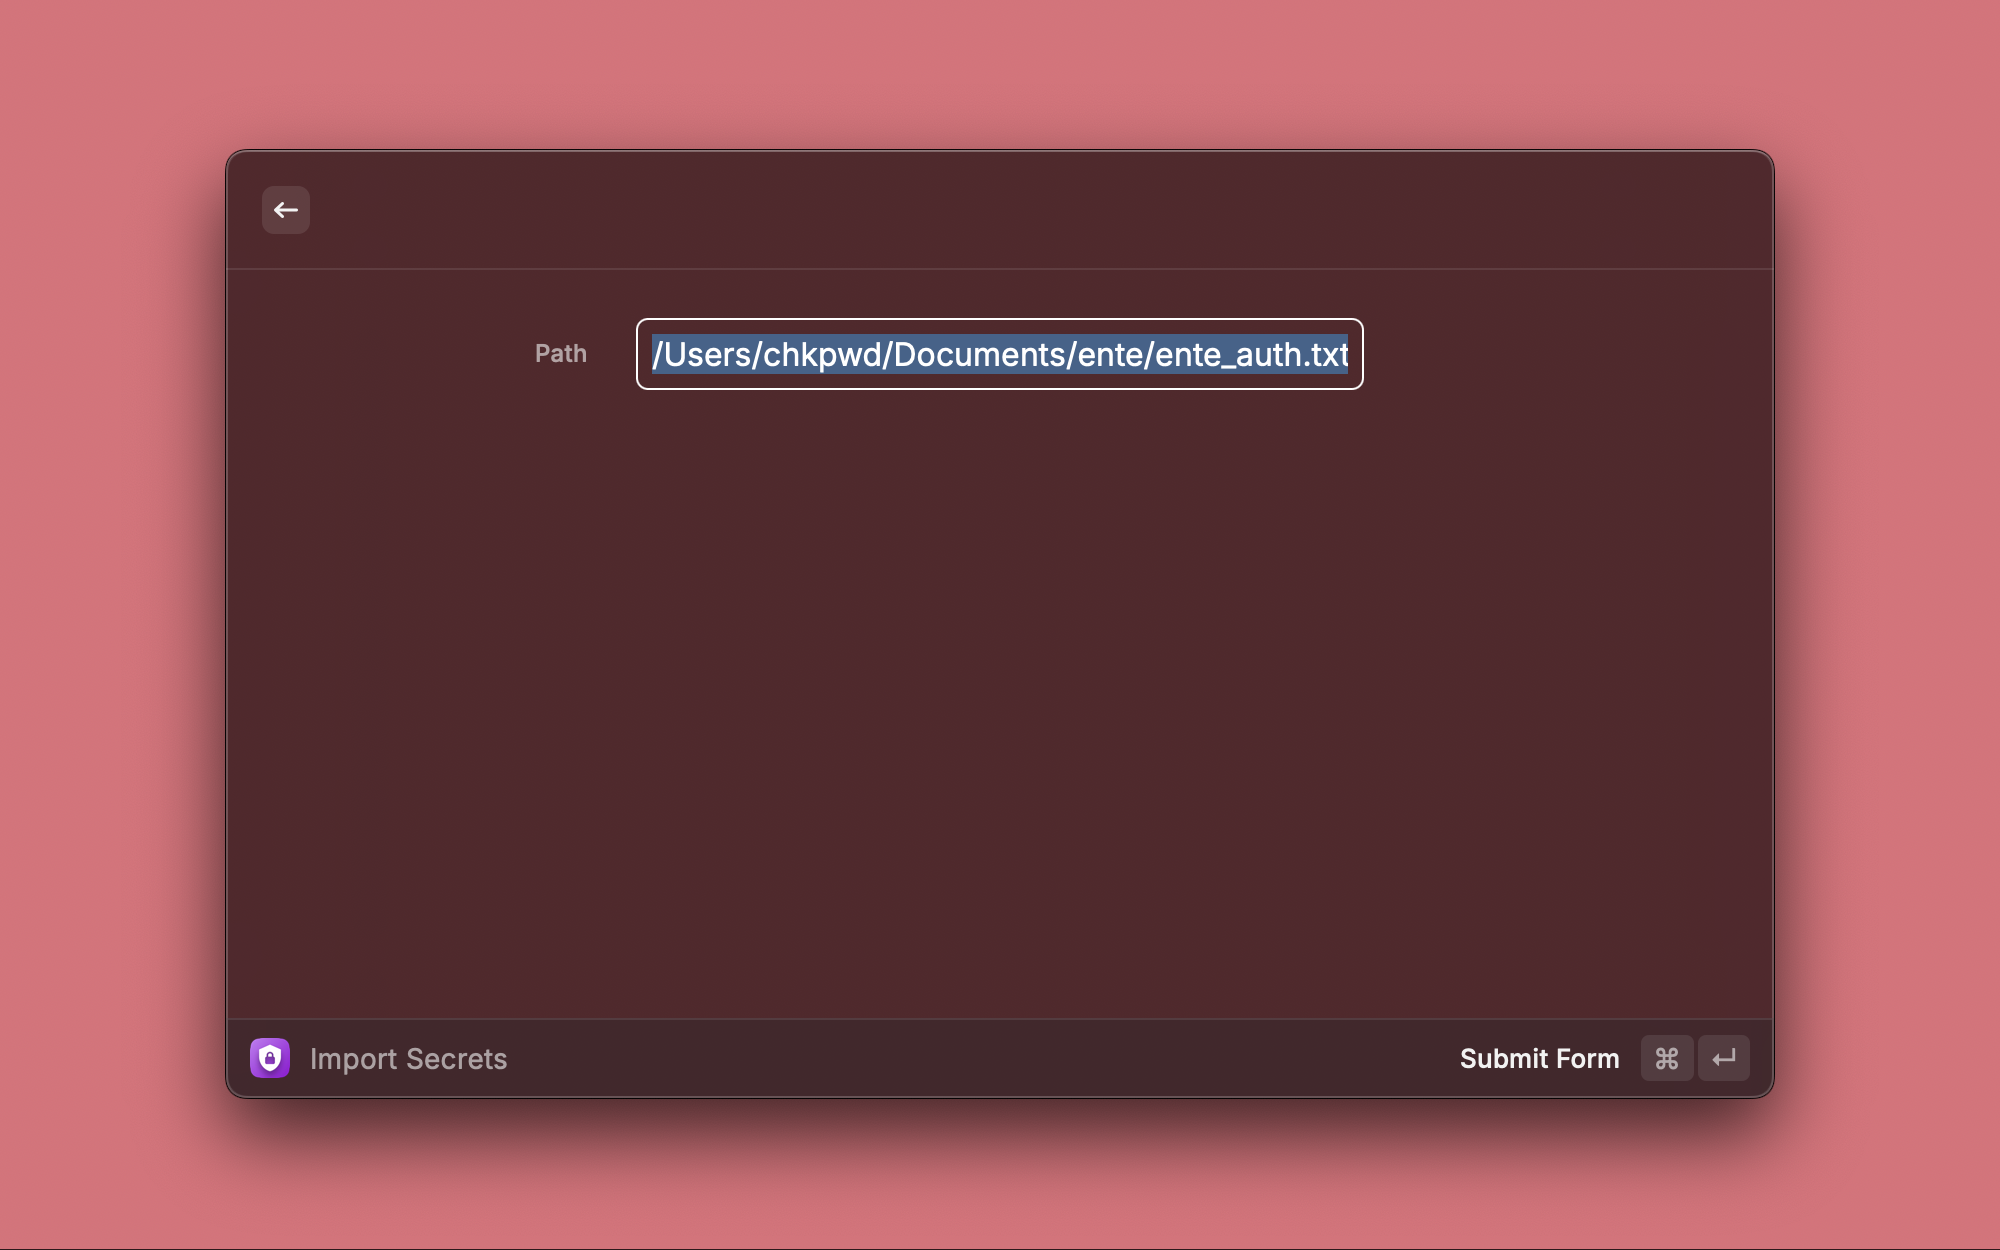
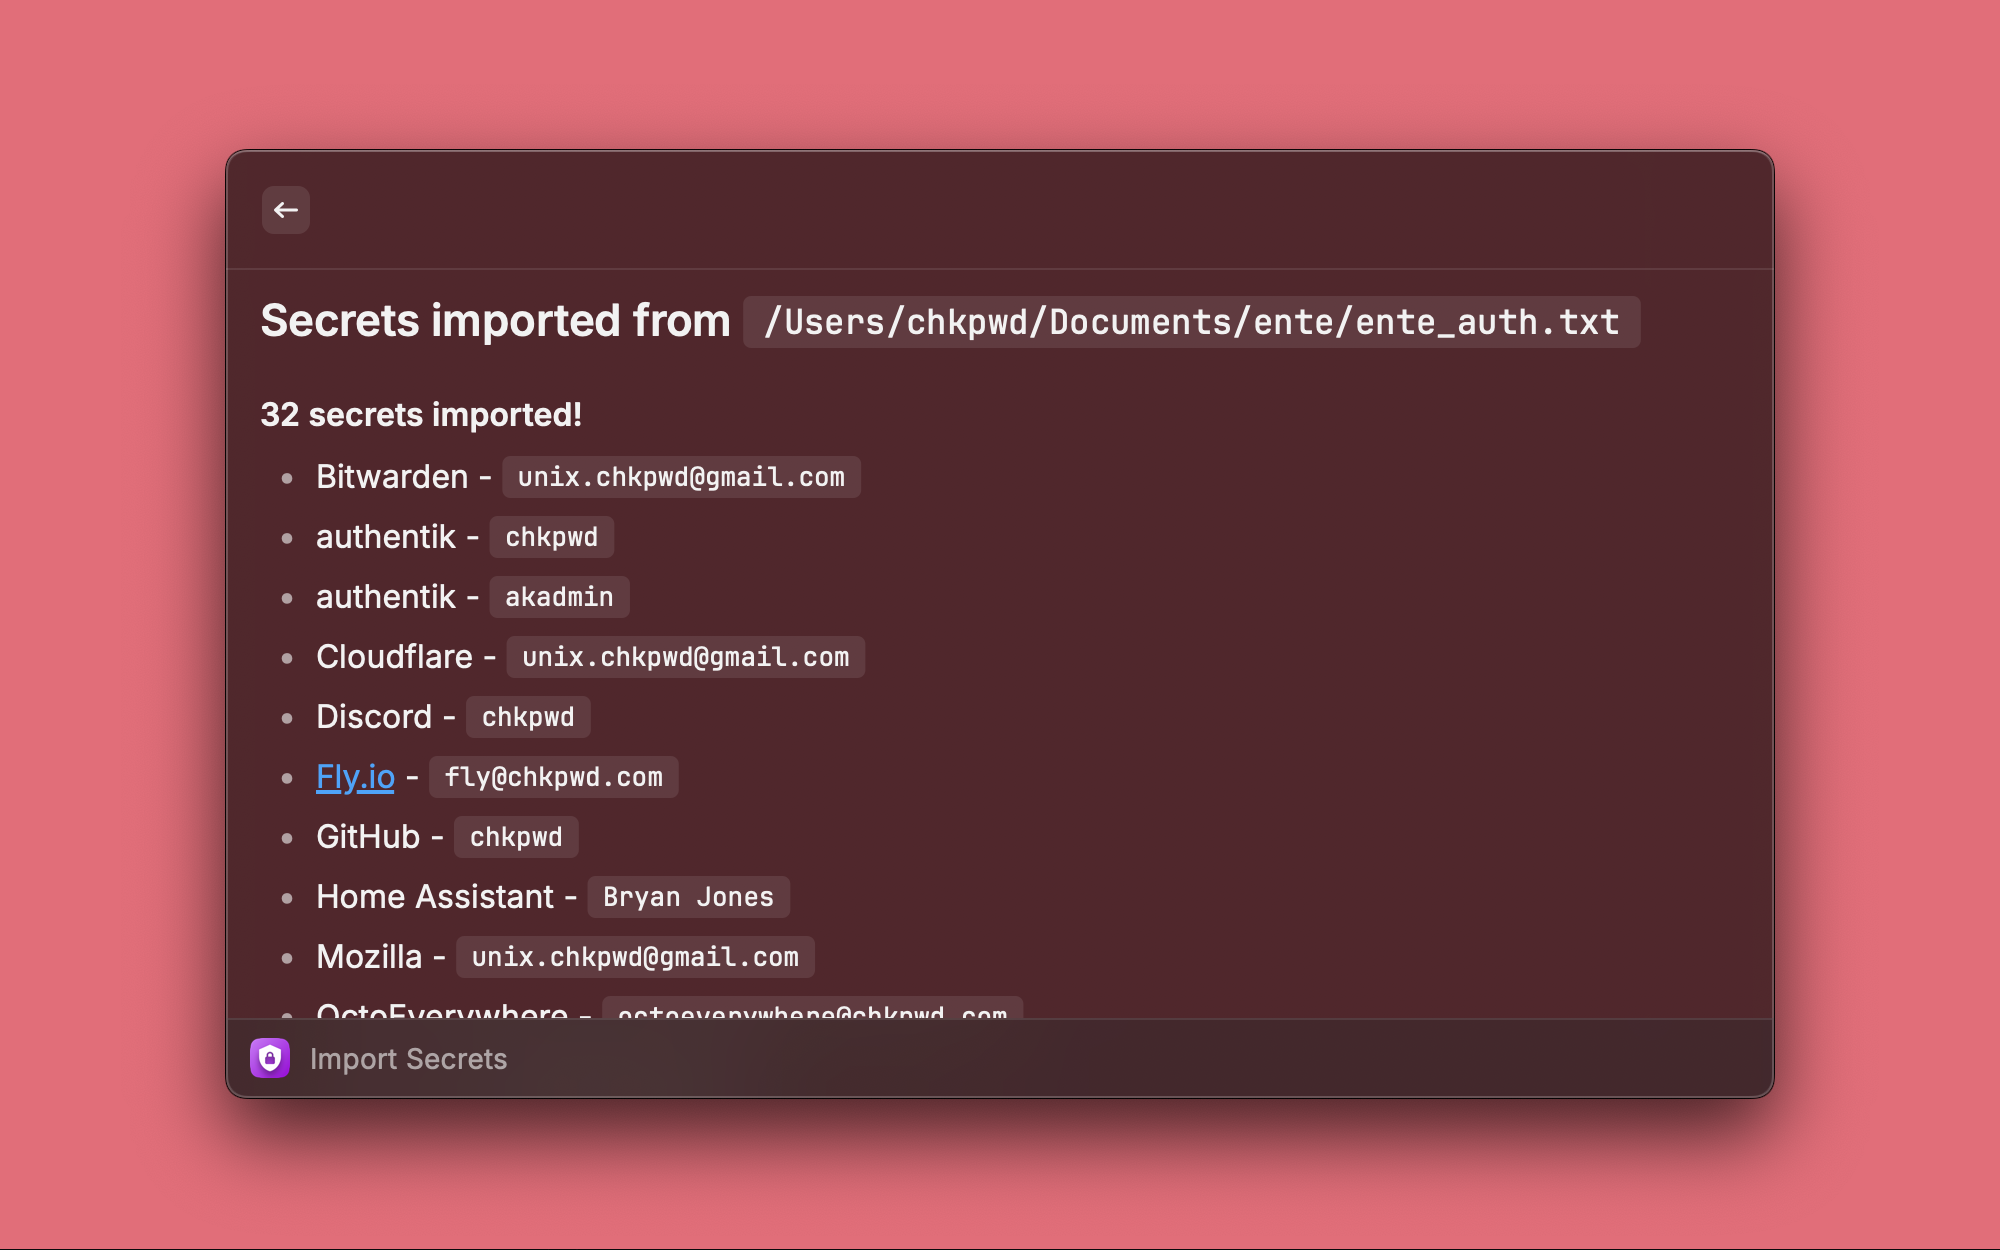
feat: show secrets that are imported

diff --git a/ente-auth/src/database.tsx b/ente-auth/src/database.tsx
@@ -1,7 +1,7 @@
 import { showError } from "./components/showError";
 import { DEFAULT_EXPORT_PATH } from "./constants/ente";
 import { getSecrets, parseSecrets, storeSecrets } from "./helpers/secrets";
-import { checkEnteBinary, createEntePath, exportEnteAuthSecrets } from "./helpers/ente";
+import { showToast, Toast, Detail, getPreferenceValues } from "@raycast/api";
 import { checkEnteBinary, createEntePath, exportEnteAuthSecrets, deleteEnteExport } from "./helpers/ente";
 
 export default function Command() {
@@ -13,7 +13,7 @@ export default function Command() {
   }
 
   try {
-    createEntePath(exportPath);
+    createEntePath(DEFAULT_EXPORT_PATH);
   } catch (error) {
     showToast(Toast.Style.Failure, "Folder creation failed");
     return <Detail markdown={`## Failed to create folder at \`${exportPath}\``} />;
@@ -35,8 +35,24 @@ export default function Command() {
       showToast({
         style: Toast.Style.Success,
         title: "Secrets imported",
-        message: `${exportPath}/ente_auth.txt was imported successfully.`,
-      }).then(() => popToRoot());
+        message: `${exportPath} imported!`,
+      });
+
+      const secretsList = secrets
+        .slice(-5)
+        .map((secret) => `- ${(secret.issuer).replaceAll("+", " ")} - \`${secret.username}\`\n`)
+        .join("");
+
+      return (
+        <Detail
+          markdown={
+            `## Secrets imported from \`${exportPath}\`\n` +
+            `### ${secrets.length} secrets imported!\n` +
+            `${secretsList}`
+          }
+        />
+      );
+
     } else {
       showToast(Toast.Style.Failure, "No secrets found", "Please check your export path");
     }
